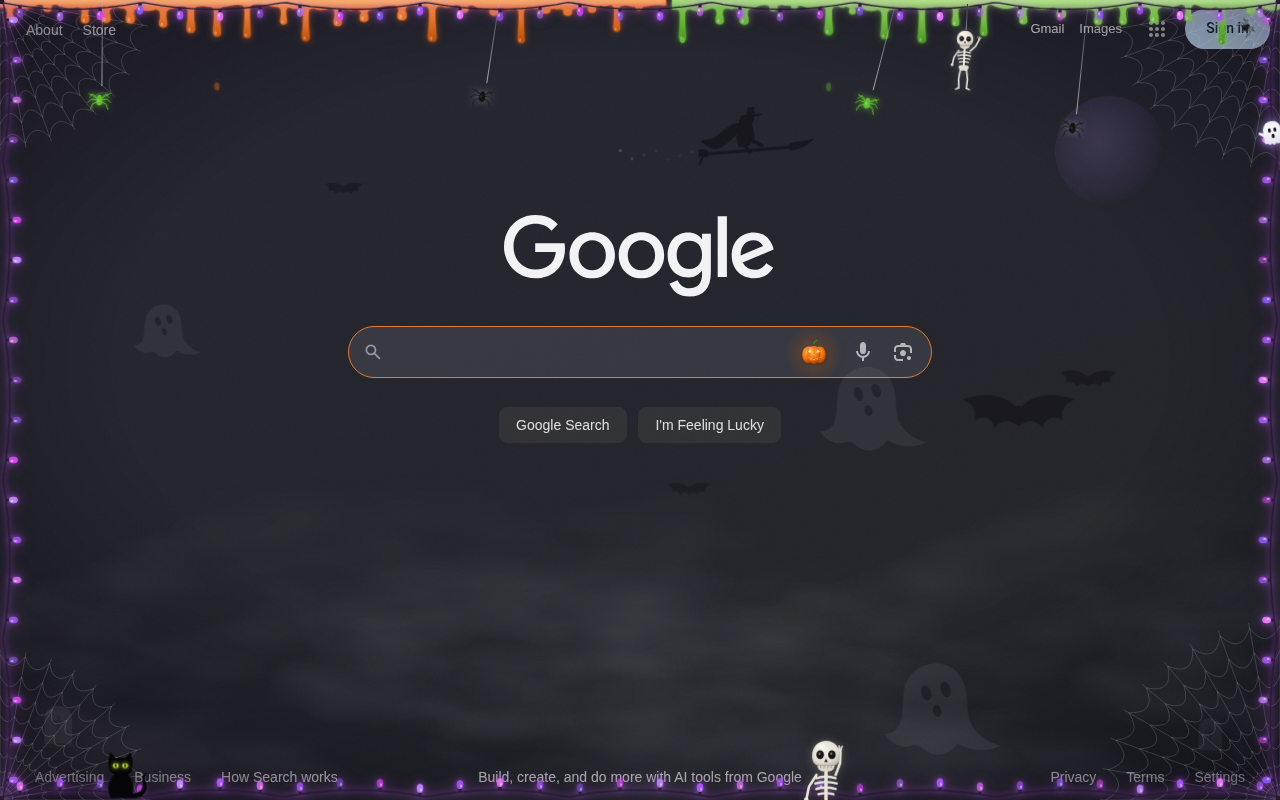
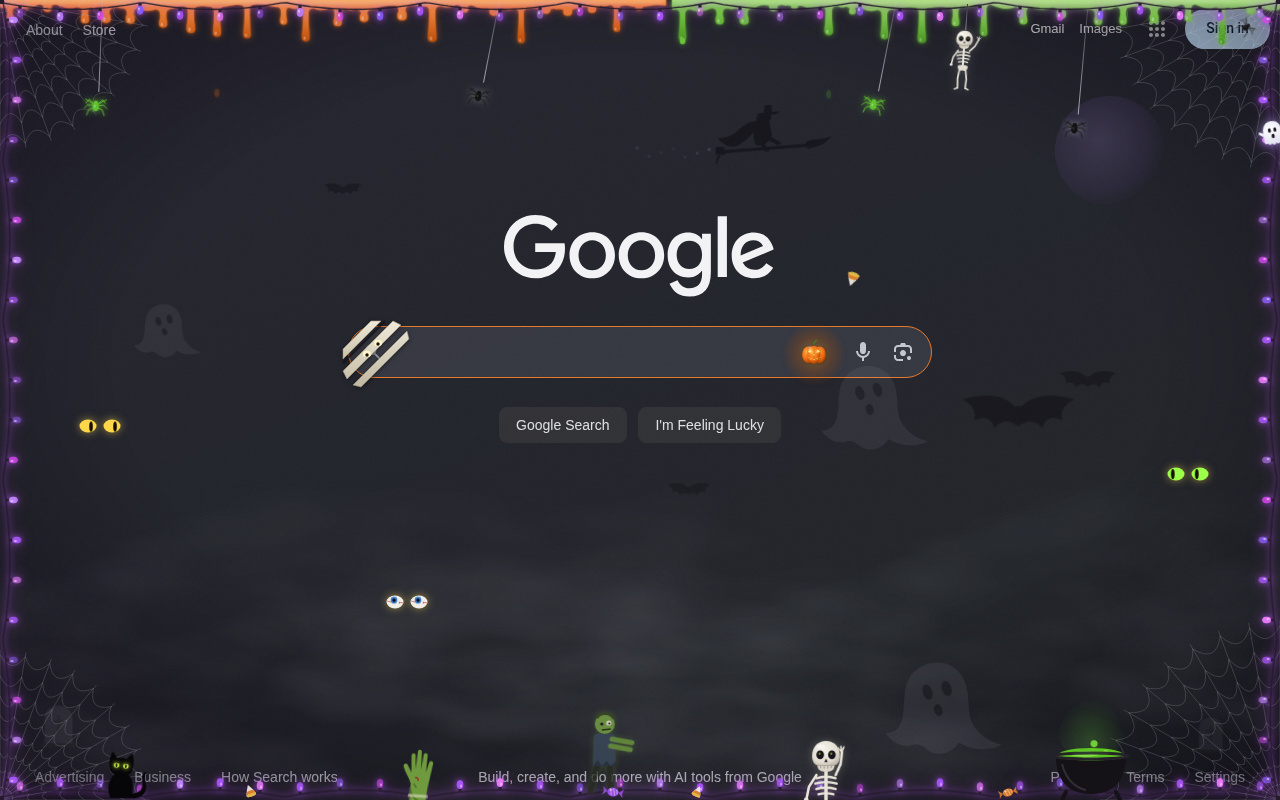
Add zombie hand + shuffling zombie, bubbling cauldron, candy, seizure-safe lightning, mummy wraps, cursor-tracking eyes

diff --git a/content.js b/content.js
@@ -232,6 +232,12 @@
   // cats glance toward the cursor; the dangling skeleton chatters when it's close
   function turnCats() {
     if (ptr.x < -1000) return;
+    document.querySelectorAll('.hw-eyes, .hw-mummy').forEach(eg => {
+      const r = eg.getBoundingClientRect(); if (!r.width) return;
+      const dx = ptr.x - (r.left + r.width / 2), dy = ptr.y - (r.top + r.height / 2), d = Math.hypot(dx, dy) || 1, m = eg.classList.contains('hw-mummy') ? 1.6 : 3.2;
+      const tf = `translate(${(dx / d * m).toFixed(2)}px,${(dy / d * m * .6).toFixed(2)}px)`;
+      eg.querySelectorAll('.hw-pupil').forEach(p => { p.style.transform = tf; });
+    });
     const sk = document.querySelector('.hw-skel-hang');
     if (sk) { const r = sk.getBoundingClientRect(); sk.classList.toggle('hw-chatter', Math.hypot(ptr.x - (r.left + r.width / 2), ptr.y - (r.top + r.height * .6)) < 130); }
     document.querySelectorAll('.hw-cat').forEach(c => {
@@ -240,6 +246,17 @@
       const ang = Math.max(-14, Math.min(14, dx / 25)), tilt = Math.max(-4, Math.min(4, dy / 80));
       const h = c.querySelector('.hw-cat-head'); if (h) h.style.transform = `rotate(${(ang + tilt).toFixed(1)}deg)`;
     });
+  }
+  let boltTimer = 0;
+  function scheduleLightning(first) {
+    if (reduceMotion) return;
+    boltTimer = setTimeout(() => {
+      if (!enabled || !root) return;
+      const f = root.querySelector('.hw-flash'), b = root.querySelector('.hw-bolt');
+      if (b) b.style.left = (15 + Math.random() * 65).toFixed(0) + '%';
+      [f, b].forEach(n => { if (!n) return; n.classList.remove('hw-strike'); void n.offsetWidth; n.classList.add('hw-strike'); });
+      scheduleLightning(false);
+    }, first ? 6000 + Math.random() * 6000 : 30000 + Math.random() * 30000);
   }
   function stopSpiders() { cancelAnimationFrame(rafId); rafId = 0; spiders.length = 0; }
 
@@ -334,6 +351,51 @@
     <g class="hw-skel-jaw"><path d="M22 24 H38 C38 28 35 30 30 30 C25 30 22 28 22 24Z" fill="#dcd7c9"/>
       <path d="M25 24 V26.5 M28.3 24 V27 M31.7 24 V27 M35 24 V26.5" stroke="#8d877c" stroke-width=".8"/></g>
     <ellipse cx="25" cy="6" rx="4" ry="2" fill="#fff" opacity=".45"/></svg>`;
+  // --- zombie hand bursting from the ground, with dirt
+  const zHandSVG = () => `<svg xmlns="${NS}" width="44" height="70" viewBox="0 0 44 70" overflow="visible">
+    <path d="M14 70 V40 C12 34 8 30 6 24 C5 21 8 19 10 22 L14 29 L13 12 C13 9 17 9 17 12 L18 26 L19 8 C19 5 23 5 23 8 L23.5 26 L25 11 C25 8 29 8 29 11 L28.5 28 L31 18 C32 15 35.5 16 35 19 L32 38 C31 44 30 50 30 70Z" fill="#6f9a3e"/>
+    <path d="M14 70 V44 C15 52 19 56 22 56 M17 40 L20 44" stroke="#4d6e27" stroke-width="1.4" fill="none"/>
+    <path d="M18 34 C20 33 22 35 21 37" stroke="#8e3a2a" stroke-width="1.6" fill="none"/>
+    <path d="M12 52 H32" stroke="#e8e2d0" stroke-width="3" opacity=".55"/></svg>`;
+  const dirtHTML = () => Array.from({ length: 8 }, (_, i) => `<i style="--dx:${(i - 3.5) * 9}px;--dy:${-18 - (i % 3) * 10}px;animation-delay:${(i * .03).toFixed(2)}s"></i>`).join('');
+  // --- shuffling zombie (cartoon silhouette with green skin, arms out)
+  const zombieSVG = () => `<svg xmlns="${NS}" width="54" height="86" viewBox="0 0 54 86" overflow="visible">
+    <g class="hw-z-legs"><path d="M20 58 L16 84 M32 58 L36 84" stroke="#2a2e24" stroke-width="6" stroke-linecap="round"/></g>
+    <path d="M16 30 C16 26 36 26 37 30 L38 60 H15Z" fill="#3d4a5c"/><path d="M15 60 L20 54 L24 60 L29 55 L33 60 L38 55 V60Z" fill="#2c3646"/>
+    <g class="hw-z-arms"><path d="M34 33 L54 35 M33 40 L53 42" stroke="#6f9a3e" stroke-width="5" stroke-linecap="round"/></g>
+    <circle cx="27" cy="18" r="10" fill="#7aa645"/><path d="M19 12 C22 6 33 6 36 13" stroke="#3a4a22" stroke-width="3" fill="none"/>
+    <circle cx="31" cy="17" r="2.6" fill="#f2f0d8"/><circle cx="31.5" cy="17.5" r="1" fill="#1a1a1a"/><circle cx="24" cy="18" r="1.6" fill="#1a1a1a"/>
+    <path d="M24 24 L33 23" stroke="#2a3418" stroke-width="1.5"/></svg>`;
+  // --- cauldron with bubbling goo
+  const cauldronSVG = () => `<svg xmlns="${NS}" width="78" height="66" viewBox="0 0 78 66" overflow="visible">
+    <ellipse cx="39" cy="22" rx="34" ry="8" fill="#5cc41f"/><ellipse cx="33" cy="20" rx="14" ry="3" fill="#a6ec6a" opacity=".6"/>
+    ${[[24, 4.5, 0], [42, 3.5, .8], [54, 4, 1.6], [33, 3, 2.3]].map(([x, r, d]) => `<circle class="hw-bubble" cx="${x}" cy="20" r="${r}" fill="#7fdc3a" style="animation-delay:${d}s"/>`).join('')}
+    <path d="M4 22 C4 46 16 60 39 60 C62 60 74 46 74 22 C66 28 12 28 4 22Z" fill="#141216"/>
+    <path d="M10 30 C14 46 24 54 34 56" stroke="#3a3540" stroke-width="2" fill="none" opacity=".8"/>
+    <path d="M14 58 L10 66 M64 58 L68 66" stroke="#141216" stroke-width="4" stroke-linecap="round"/>
+    <path d="M2 22 C2 18 76 18 76 22 C76 26 2 26 2 22Z" fill="none" stroke="#25222a" stroke-width="3"/></svg>`;
+  // --- candy
+  const candyCornSVG = (s = 16, rot = 0) => `<svg xmlns="${NS}" width="${s}" height="${s}" viewBox="0 0 20 20" style="transform:rotate(${rot}deg)">
+    <path d="M10 1 C13 6 17 13 17 16 C17 19 3 19 3 16 C3 13 7 6 10 1Z" fill="#f7f3e6"/><path d="M5.2 10 C8 9.2 12 9.2 14.8 10 C16 12.5 17 14.5 17 16 C17 19 3 19 3 16 C3 14.5 4 12.5 5.2 10Z" fill="#f08a2a"/>
+    <path d="M3.6 14.4 C7 13.6 13 13.6 16.4 14.4 L17 16 C17 19 3 19 3 16Z" fill="#f2c94c"/></svg>`;
+  const wrappedCandySVG = (s = 22, c = '#a855f7', rot = 0) => `<svg xmlns="${NS}" width="${s}" height="${f1(s * .55)}" viewBox="0 0 40 22" style="transform:rotate(${rot}deg)">
+    <path d="M10 11 L1 3 L3 11 L1 19Z M30 11 L39 3 L37 11 L39 19Z" fill="${c}" opacity=".85"/><ellipse cx="20" cy="11" rx="10.5" ry="8" fill="${c}"/>
+    <path d="M14 5 L18 17 M20 4 L24 17 M26 6 L28 13" stroke="#fff" stroke-opacity=".45" stroke-width="2"/><ellipse cx="16" cy="7.5" rx="3" ry="1.6" fill="#fff" opacity=".5"/></svg>`;
+  // --- mummy wraps for a card corner (overlay layer); eyes peek between the wraps
+  const mummySVG = () => `<svg xmlns="${NS}" width="70" height="70" viewBox="0 0 70 70" overflow="visible">
+    <defs><linearGradient id="mw${++uid}" x1="0" y1="0" x2="0" y2="1"><stop offset="0" stop-color="#efe9d8"/><stop offset="1" stop-color="#c9c1aa"/></linearGradient></defs>
+    <g fill="url(#mw${uid})" stroke="#a69c84" stroke-width=".6">
+      <path d="M-2 26 L26 -2 L36 -2 L-2 36Z"/><path d="M-2 48 L48 -2 L56 2 L2 56Z"/><path d="M8 62 L62 8 L64 16 L16 64Z" opacity=".95"/></g>
+    <g class="hw-blinker"><ellipse cx="22" cy="31" rx="4" ry="3.2" fill="#fff6c8"/><ellipse cx="33" cy="20" rx="4" ry="3.2" fill="#fff6c8"/>
+      <circle class="hw-pupil" cx="22" cy="31" r="1.7" fill="#1c1410"/><circle class="hw-pupil" cx="33" cy="20" r="1.7" fill="#1c1410"/></g>
+    <path d="M-2 40 L40 -2" stroke="#16121a" stroke-width="2.4" opacity=".7"/></svg>`;
+  // --- a pair of glowing eyes (pupils track the cursor)
+  const eyesSVG = (col = '#ffd84a', blood = false) => `<svg xmlns="${NS}" width="46" height="20" viewBox="0 0 46 20" overflow="visible">
+    <g class="hw-blinker">${[11, 35].map(x => `<ellipse cx="${x}" cy="10" rx="8.5" ry="6.5" fill="${blood ? '#f4efe6' : col}"/>
+      ${blood ? `<path d="M${x - 8} 9 L${x - 4} 10 L${x - 2} 8 M${x + 8} 11 L${x + 4} 10 L${x + 5} 12" stroke="#c0392b" stroke-width=".6" fill="none"/>` : ''}
+      <g class="hw-pupil"><ellipse cx="${x}" cy="10" rx="${blood ? 3.4 : 1.8}" ry="${blood ? 3.4 : 5}" fill="${blood ? '#3b7fd1' : '#120c06'}"/>${blood ? `<circle cx="${x}" cy="10" r="1.7" fill="#0c0c10"/>` : ''}</g>`).join('')}</g></svg>`;
+  // --- lightning bolt
+  const boltSVG = () => `<svg xmlns="${NS}" width="120" height="300" viewBox="0 0 120 300"><path d="M70 0 L42 110 L66 112 L30 220 L54 222 L22 300 L96 180 L70 178 L102 80 L78 78 L104 0Z" fill="#e9dcff" opacity=".7"/></svg>`;
   const batSVG = (s, op) => `<svg xmlns="${NS}" width="${s}" height="${s / 2}" viewBox="0 0 60 30" opacity="${op}">
     <g class="hw-wings"><path d="M30 12 C25 4 15 2 2 6 C8 9 9 13 8 17 C13 14 17 16 18 21 C22 16 26 17 30 20 C34 17 38 16 42 21 C43 16 47 14 52 17 C51 13 52 9 58 6 C45 2 35 4 30 12Z" fill="#0d0a10"/></g>
     <circle cx="30" cy="13" r="3.5" fill="#0d0a10"/></svg>`;
@@ -400,6 +462,21 @@
     root.appendChild(el('div', 'hw-skel hw-skel-peek', skeletonSVG(64, false)));
     // small skeleton dangling from the top border lights; chatters + waves when the cursor comes near
     root.appendChild(el('div', 'hw-skel hw-skel-hang', `<div class="hw-skel-cord"></div>${skeletonSVG(38, true)}`));
+    // zombie hand bursting from the bottom edge (CSS cycle) + shuffling zombie (CSS cycle)
+    root.appendChild(el('div', 'hw-zhand', `${zHandSVG()}<div class="hw-dirt">${dirtHTML()}</div>`));
+    root.appendChild(el('div', 'hw-zombie', zombieSVG()));
+    // cauldron in the bottom-right corner (clear of the cat at left and the peeker at 62%)
+    root.appendChild(el('div', 'hw-cauldron', `<div class="hw-steam"></div>${cauldronSVG()}`));
+    // a little candy scattered along the bottom edge + one that occasionally tumbles down
+    [['corn', 19, 14, -20], ['wrap', 47, 22, 10, '#a855f7'], ['corn', 54, 13, 25], ['wrap', 78, 20, -15, '#f08a2a']].forEach(([k, x, sz, rot, c]) =>
+      root.appendChild(el('div', 'hw-candy', k === 'corn' ? candyCornSVG(sz, rot) : wrappedCandySVG(sz, c, rot), `left:${x}%`)));
+    root.appendChild(el('div', 'hw-candy-fall', candyCornSVG(16, 0)));
+    // eyes in dark spots that follow the cursor (capped at 3 pairs)
+    [['6%', '52%', '#ffd84a', false], ['91%', '58%', '#9cff4a', false], ['30%', '74%', '', true]].forEach(([x, y, c, b], i) =>
+      root.appendChild(el('div', 'hw-eyes', eyesSVG(c, b), `left:${x};top:${y};--bd:${(4 + i * 1.7).toFixed(1)}s`)));
+    // lightning: flash overlay + faint bolt (scheduled in JS, randomised 30-60s)
+    root.insertBefore(el('div', 'hw-bolt', boltSVG()), root.querySelector('.hw-bg').nextSibling);
+    root.appendChild(el('div', 'hw-flash'));
     // black cat sitting in the bottom-left corner
     root.appendChild(el('div', 'hw-cat hw-cat-corner', catSVG(52)));
     // peeking ghost
@@ -493,6 +570,7 @@
       if (r.height < 72 && r.width > 500) { // banner/alert
         e.style.setProperty('border-color', COLORS.orange.mid, 'important');
         deco.appendChild(i % 2 ? el('div', 'hw-mini-ghost hw-in-banner', miniGhostSVG(26)) : pumpkin(28, ' hw-in-banner'));
+        if (i === 0) deco.appendChild(el('div', 'hw-mummy', mummySVG()));
         e.classList.add('hw-carded'); e.dataset.hwSlime = 'orange'; track(e, deco, 'card'); return;
       }
       const ci = cardSeq++;
@@ -509,6 +587,7 @@
       if (topper === 'tomb') deco.appendChild(el('div', 'hw-card-tomb', tombSVG(22, .95)));
       if (topper === 'bat') deco.appendChild(el('div', 'hw-card-bat', batSVG(30, .85)));
       if (topper === 'none') deco.appendChild(el('div', 'hw-cat hw-cat-card', catSVG(40)));
+      if (ci === 1 || ci === 6) deco.appendChild(el('div', 'hw-mummy', mummySVG()));
       if (ci % 3 === 2) deco.appendChild(el('div', 'hw-card-web', webSVG(60, 'scaleX(-1)')));
       track(e, deco, 'card');
     });
@@ -586,6 +665,7 @@
     observer.observe(document.body, { childList: true, subtree: true });
     document.addEventListener('scroll', queueSync, { capture: true, passive: true });
     if (!reduceMotion) document.addEventListener('pointermove', onPointer, { passive: true });
+    scheduleLightning(true);
     addEventListener('resize', queueSync);
     let rt; addEventListener('resize', () => { clearTimeout(rt); rt = setTimeout(() => { if (!enabled) return; root.remove(); buildRoot(); tracked.forEach(t => cardLayer.appendChild(t.node)); queueSync(); }, 400); });
     syncTimer = setInterval(queueSync, 500); // catches layout shifts that move cards without resizing them
@@ -593,7 +673,7 @@
   function disable() {
     if (!enabled) return; enabled = false;
     observer && observer.disconnect(); observer = null;
-    root && root.remove(); stopSpiders(); clearInterval(syncTimer); tracked.splice(0);
+    root && root.remove(); stopSpiders(); clearInterval(syncTimer); clearTimeout(boltTimer); tracked.splice(0);
     added.splice(0).forEach(n => n.remove());
     touched.reverse().splice(0).forEach(([e, s]) => { e.style.cssText = s; });
     document.querySelectorAll('.hw-carded').forEach(e => e.classList.remove('hw-carded'));

diff --git a/halloween.css b/halloween.css
@@ -133,3 +133,45 @@
 @keyframes hw-chatter{from{transform:translateY(0)}to{transform:translateY(2.2px)}}
 @keyframes hw-skel-wave2{from{transform:rotate(-26deg)}to{transform:rotate(16deg)}}
 @media (prefers-reduced-motion: reduce){.hw-skel-peek{transform:translateY(22%)!important}.hw-skel *,.hw-skel{animation:none!important}}
+
+/* ---- zombie hand + walker ---- */
+.hw-zhand{left:31%;bottom:0;width:44px;height:70px}
+.hw-zhand svg{transform:translateY(105%);animation:hw-zhand 42s ease-out infinite;animation-delay:-20s}
+@keyframes hw-zhand{0%,58%{transform:translateY(105%)}60%{transform:translateY(18%) rotate(-4deg)}61%{transform:translateY(24%) rotate(3deg)}62%,74%{transform:translateY(20%) rotate(-2deg)}68%{transform:translateY(20%) rotate(4deg)}78%,100%{transform:translateY(105%)}}
+.hw-dirt{position:absolute;left:22px;bottom:2px}
+.hw-dirt i{position:absolute;width:4px;height:4px;border-radius:40%;background:#4a3a28;opacity:0;animation:hw-dirt 42s ease-out infinite;animation-delay:-20s}
+@keyframes hw-dirt{0%,59.5%{opacity:0;transform:translate(0,0)}60%{opacity:.9;transform:translate(0,0)}61.5%{opacity:.8;transform:translate(var(--dx),var(--dy))}63.5%,100%{opacity:0;transform:translate(calc(var(--dx) * 1.3),6px)}}
+.hw-zombie{left:0;bottom:4px;opacity:0;animation:hw-zwalk 54s linear infinite;animation-delay:-8s}
+.hw-zombie svg{opacity:.8;filter:drop-shadow(0 0 3px rgba(110,160,60,.35))}
+@keyframes hw-zwalk{0%{opacity:0;transform:translateX(-70px)}1%{opacity:1}44%{opacity:1;transform:translateX(calc(100vw + 10px))}45%,100%{opacity:0;transform:translateX(calc(100vw + 70px))}}
+.hw-z-legs{transform-box:fill-box;transform-origin:50% 0;animation:hw-zstep 1.4s ease-in-out infinite alternate}
+.hw-z-arms{transform-box:fill-box;transform-origin:0 50%;animation:hw-zarm 2.8s ease-in-out infinite alternate}
+@keyframes hw-zstep{from{transform:skewX(-8deg)}to{transform:skewX(8deg)}}
+@keyframes hw-zarm{from{transform:rotate(-4deg)}to{transform:rotate(5deg)}}
+/* ---- cauldron ---- */
+.hw-cauldron{right:150px;bottom:0}
+.hw-cauldron svg{display:block}
+.hw-steam{position:absolute;left:4px;top:-34px;width:70px;height:60px;border-radius:50%;background:radial-gradient(ellipse at 50% 70%,rgba(110,220,60,.32),rgba(110,220,60,0) 70%);animation:hw-steam 4s ease-in-out infinite}
+@keyframes hw-steam{0%,100%{opacity:.55;transform:translateY(0) scale(1)}50%{opacity:.95;transform:translateY(-5px) scale(1.08)}}
+.hw-bubble{transform-box:fill-box;transform-origin:50% 100%;animation:hw-bubble 3s ease-in infinite}
+@keyframes hw-bubble{0%{transform:translateY(4px) scale(.3);opacity:0}20%{opacity:1}75%{transform:translateY(-10px) scale(1);opacity:1}82%{transform:translateY(-12px) scale(1.35);opacity:0}100%{opacity:0}}
+/* ---- candy ---- */
+.hw-candy{bottom:2px;opacity:.9}
+.hw-candy svg{display:block}
+.hw-candy-fall{left:66%;top:0;opacity:0;animation:hw-candyfall 40s ease-in infinite;animation-delay:-5s}
+@keyframes hw-candyfall{0%,80%{opacity:0;transform:translateY(-30px) rotate(0)}81%{opacity:.9}97%{opacity:.9;transform:translateY(calc(100vh - 20px)) rotate(540deg)}100%{opacity:0;transform:translateY(calc(100vh - 20px)) rotate(560deg)}}
+/* ---- lightning (seizure-safe: two short flashes within 300ms, then 30-60s rest) ---- */
+.hw-flash{inset:0;background:rgba(225,215,255,1);opacity:0}
+.hw-flash.hw-strike{animation:hw-flash .32s linear 1}
+@keyframes hw-flash{0%{opacity:0}8%{opacity:.16}25%{opacity:0}50%{opacity:.12}75%,100%{opacity:0}}
+.hw-bolt{top:0;opacity:0;filter:drop-shadow(0 0 8px rgba(200,180,255,.8))}
+.hw-bolt.hw-strike{animation:hw-bolt .6s ease-out 1}
+@keyframes hw-bolt{0%{opacity:0}8%{opacity:.38}25%{opacity:.1}50%{opacity:.3}100%{opacity:0}}
+/* ---- mummy wraps (card corner, overlay) ---- */
+.hw-mummy{position:absolute;left:-3px;top:-3px;filter:drop-shadow(0 1px 2px rgba(0,0,0,.5))}
+/* ---- eyes ---- */
+.hw-eyes svg{display:block;filter:drop-shadow(0 0 4px rgba(255,220,80,.55))}
+.hw-eyes .hw-pupil,.hw-mummy .hw-pupil{transition:transform .25s ease-out}
+.hw-blinker{transform-box:fill-box;transform-origin:50% 50%;animation:hw-blink var(--bd,5s) infinite}
+@media (prefers-reduced-motion: reduce){.hw-flash,.hw-bolt,.hw-zombie,.hw-candy-fall{display:none}.hw-zhand svg,.hw-dirt i{animation:none!important}
+  .hw-steam,.hw-bubble,.hw-z-legs,.hw-z-arms,.hw-blinker{animation:none!important}.hw-pupil{transition:none!important}}
